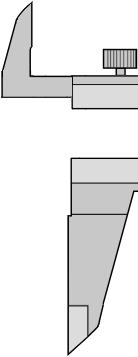
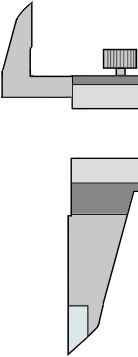
Vernier Calliper Simulation Added

Changed region(s): [[0.5217, 0.493, 1.0, 0.6162], [0.5217, 0.2157, 1.0, 0.2465]]

diff --git a/experiments/vernier_calliper.html b/experiments/vernier_calliper.html
@@ -42,9 +42,9 @@
 s
 <script type='text/javascript'>
     /*drawing offset*/
-    var scale=window.innerWidth/1000;
-    var xOffset=0;
-    var yOffset=0;
+    var scale=window.innerWidth/1200;
+    var xOffset=30;
+    var yOffset=30;
     var dragMode=0;//0==none, 1=world, 2=vernier, 3= object
 
     var mx, my; //prev mouse positions
@@ -98,6 +98,7 @@ s
     const vernierScaleHeightPixels=354;
     const bladeWidthPixel=716;
     const bladeHeightPixel=20;
+    const rulerMidPointY=135;
 
     const unit="mm";
     var mainScaleDivisions=50;
@@ -107,6 +108,7 @@ s
     var vsd_pixels=mainScaleLengthPixels/mainScaleDivisions;
     var vernierScaleLengthPixels=180;
 
+    var precision=2;
     var LC=0;
     var msr=0;
     var vsr=0;
@@ -118,7 +120,7 @@ s
     var randomMainScaleDivisions=true;
     var randomVernierScaleDivision=true;
     var randomObjectWidthPixel=true;
-    var objectTobeMeasured={x:xOffset+ window.innerWidth-40,y:yOffset+window.innerHeight-110,w:30,h:100,type:0,state:1};//state =0=hide, 1= visible but not snapped, 2=snapped
+    var objectTobeMeasured={path:null,x:0,y:0,length:100,w:100,h:100,R1:30,R2:50,h2:100,h1:80,th:0,mode:0,state:0};//state =0=hide, 1= visible but not snapped, 2=snapped
 
     //create gui
     var gui = new dat.GUI({name:"MicrometerSimulation"});//,autoPlace: false});
@@ -174,22 +176,82 @@ s
         resize();
     }
 
-    function createProblem(){
-        if(randomVernierScaleDivision)randomVernierScaleDivision=(1+Math.round(Math.random()*9))*10;
-        if(randomZeroError)zeroError=Math.round(2*vernierScaleDivisions*(Math.random()-0.5));
-        if(randomMainScaleDivisions)mainScaleDivisions=10*(1+Math.round(4*Math.random()));
-        if(randomObjectWidthPixel)objectWidthPixel=mainScaleLengthPixels*(1+5*Math.random())/10;
-        objectTobeMeasured.state=1;
-        objectTobeMeasured.w=objectWidthPixel;
+    function createProblem() {
+        if (randomMainScaleDivisions) mainScaleDivisions = 50 * (1 + Math.round(2 * Math.random()));
+        if (randomVernierScaleDivision) vernierScaleDivisions = (1 + Math.round(Math.random() * 5)) * 5;
+        if (vernierScaleDivisions > mainScaleDivisions / 4) vernierScaleDivisions = Math.round(mainScaleDivisions / 20) * 5;
+        if (randomZeroError) zeroError = Math.round(2 * vernierScaleDivisions * (Math.random() - 0.5));
+        if (randomObjectWidthPixel || objectTobeMeasured.path==null) {
+            objectWidthPixel = mainScaleLengthPixels * (1 + 3 * Math.random()) / 10;
+
+            //objectTobeMeasured.state=1;
+            objectTobeMeasured.R2 = (0.3 + 0.7 * Math.random()) * mainScaleLengthPixels / 4;
+            objectTobeMeasured.R1 = (0.7 + 0.2 * Math.random()) * objectTobeMeasured.R2;
+            objectTobeMeasured.h2 = (0.4 + 0.6 * Math.random()) * mainScaleLengthPixels / 5;
+            objectTobeMeasured.h1 = (0.7 + 0.2 * Math.random()) * objectTobeMeasured.h2;
+            objectTobeMeasured.w = 2 * objectTobeMeasured.R2;
+            objectTobeMeasured.h = objectTobeMeasured.h2;
+            objectTobeMeasured.length = 2 * objectTobeMeasured.R2;
+
+            let path = new Path2D()
+            path.moveTo(0, 0);
+            path.lineTo(2 * objectTobeMeasured.R2, 0);
+            path.lineTo(2 * objectTobeMeasured.R2, objectTobeMeasured.h2);
+            path.lineTo(objectTobeMeasured.R1 + objectTobeMeasured.R2, objectTobeMeasured.h2)
+            path.lineTo(objectTobeMeasured.R2 + objectTobeMeasured.R1, objectTobeMeasured.h2 - objectTobeMeasured.h1);
+            path.lineTo(objectTobeMeasured.R2 - objectTobeMeasured.R1, objectTobeMeasured.h2 - objectTobeMeasured.h1);
+            path.lineTo(objectTobeMeasured.R2 - objectTobeMeasured.R1, objectTobeMeasured.h2);
+            path.lineTo(0, objectTobeMeasured.h2);
+            path.closePath();
+            objectTobeMeasured.path = path;
+        }
+
         //objectTobeMeasured.x=xOffset+canvas.width-objectTobeMeasured.w-10;
         //objectTobeMeasured.y=yOffset+canvas.height-objectTobeMeasured.h-10;
-        if(Math.abs(objectTobeMeasured.x-spindleOriginX)<200 && Math.abs(objectTobeMeasured.y-scaleOriginY+objectTobeMeasured.h/2)<objectTobeMeasured.h/2+50){
-            objectTobeMeasured.x=spindleOriginX;
-            objectTobeMeasured.y=scaleOriginY-objectTobeMeasured.h/2;
+        if(objectTobeMeasured.state==2){
+            //objectTobeMeasured.x=scaleOriginX   ;
+            //objectTobeMeasured.y=scaleOriginY+objectTobeMeasured.h/2;
+            if(objectTobeMeasured.mode==1){
+                objectTobeMeasured.w=2*objectTobeMeasured.R2;
+                objectTobeMeasured.h=objectTobeMeasured.h2;
+                objectTobeMeasured.th=0;
+                objectTobeMeasured.mode=1;
+                objectTobeMeasured.state=2;
+                objectTobeMeasured.x=32-objectTobeMeasured.R2+objectTobeMeasured.R1;
+                objectTobeMeasured.y=3-objectTobeMeasured.h2+objectTobeMeasured.h1;
+                objectTobeMeasured.length=2*objectTobeMeasured.R1;
+             }else if(objectTobeMeasured.mode==0){
+                objectTobeMeasured.w=2*objectTobeMeasured.R2;
+                objectTobeMeasured.h=objectTobeMeasured.h2;
+                objectTobeMeasured.th=0;
+                objectTobeMeasured.mode=0;
+                objectTobeMeasured.state=2;
+                objectTobeMeasured.x=scaleOriginX;
+                objectTobeMeasured.y=imgVernier.height-50-objectTobeMeasured.h/2;
+                objectTobeMeasured.length=2*objectTobeMeasured.R2;
+            }else if( objectTobeMeasured.mode==2){
+                objectTobeMeasured.th=Math.PI/2;
+                objectTobeMeasured.w=-objectTobeMeasured.h2;
+                objectTobeMeasured.h=objectTobeMeasured.R2*2;
+                objectTobeMeasured.x=rulerWidthPixel-objectTobeMeasured.w;
+                objectTobeMeasured.y=rulerMidPointY-objectTobeMeasured.R2;
+                objectTobeMeasured.state=2;
+                objectTobeMeasured.mode=2;
+                objectTobeMeasured.length=objectTobeMeasured.h1;
+            }
             objectTobeMeasured.state=2;
-        }else if(objectTobeMeasured.x>window.innerWidth-objectTobeMeasured.w||objectTobeMeasured.y>window.innerHeight-objectTobeMeasured.w||objectTobeMeasured.x<objectTobeMeasured.w/2||objectTobeMeasured.y<-objectTobeMeasured.h/2){
-            objectTobeMeasured.x = window.innerWidth-objectTobeMeasured.w;
-            objectTobeMeasured.y = window.innerHeight-objectTobeMeasured.h
+        }else {
+            objectTobeMeasured.state=1;
+            objectTobeMeasured.mode=0;
+            objectTobeMeasured.th = 0;
+            objectTobeMeasured.w = 2 * objectTobeMeasured.R2;
+            objectTobeMeasured.h = objectTobeMeasured.h2;
+            objectTobeMeasured.length = 2 * objectTobeMeasured.R2;
+            if(objectTobeMeasured.x<-xOffset) objectTobeMeasured.x=-xOffset;
+            if(objectTobeMeasured.y<-yOffset) objectTobeMeasured.y=-yOffset;
+            //if(objectTobeMeasured.x>-xOffset+canvas.width-objectTobeMeasured.w-50) objectTobeMeasured.x = -xOffset+canvas.width-objectTobeMeasured.w-100;
+           // if(objectTobeMeasured.y>-yOffset+canvas.height-objectTobeMeasured.h-50) objectTobeMeasured.y = -yOffset+canvas.height-objectTobeMeasured.h-100;
+
         }
         for (let i in deviceFolder.__controllers) {
             if (deviceFolder.__controllers[i].property == "zeroError"){
@@ -201,6 +263,8 @@ s
             deviceFolder.__controllers[i].updateDisplay();
 
         }
+
+
         translateVernier(0);
     }
 
@@ -240,15 +304,18 @@ s
         msd_pixels=mainScaleLengthPixels/mainScaleDivisions;
         vsd_pixels=msd_pixels*(1-1/vernierScaleDivisions);
         vernierScaleLengthPixels=Math.max(imgVernier1.width+imgVernier3.width,50+vsd_pixels*vernierScaleDivisions+50);//imgVernier3.width;
-
+        precision=(vernierScaleDivisions%3==0||vernierScaleDivisions%7==0)?3:0;
         if(objectTobeMeasured.state==2){
             let v=(msr+vsr/vernierScaleDivisions)*msd_pixels
-            if(v<objectTobeMeasured.w){
-                msr=Math.floor(objectTobeMeasured.w/msd_pixels);
-                vsr=Math.floor((objectTobeMeasured.w/msd_pixels-msr)*vernierScaleDivisions);
+            let ol=objectTobeMeasured.length;
+            if((objectTobeMeasured.mode==0 && v<ol) || (objectTobeMeasured.mode!=0 && v>ol)){
+                msr=Math.floor(ol/msd_pixels);
+                vsr=Math.floor((ol/msd_pixels-msr)*vernierScaleDivisions);
                 if(tickSound.paused)tickSound.play();
             }
         }
+
+
         for (let i in deviceFolder.__controllers) {
             if (deviceFolder.__controllers[i].property == "zeroError"){
                 deviceFolder.__controllers[i].min(-vernierScaleDivisions+1).max(vernierScaleDivisions-1).step(1);
@@ -332,7 +399,7 @@ s
         ctx.font = '8pt sans-serif';
 
         let N=vernierScaleDivisions;
-        let dx=msd_pixels*(1-1/N);
+
         labelGap=0;
         while(vsd_pixels*labelGap<20){
             labelGap+=1;
@@ -344,11 +411,12 @@ s
                 outString(x,y+ticklength+1,i,1,0 );
             }
             drawLine(x,y,x,y+ticklength);
-            x+=dx;
+            x+=vsd_pixels;
         }
         ctx.fillStyle=fgColor;
         ctx.font = '12pt sans-serif';
 
+        /**
         if(objectTobeMeasured.state>0){
             let grd=ctx.createLinearGradient(objectTobeMeasured.x,objectTobeMeasured.y,objectTobeMeasured.x+objectTobeMeasured.w,objectTobeMeasured.y);
             grd.addColorStop(0,"rgb(120,120,120)")
@@ -360,53 +428,72 @@ s
             ctx.strokeRect(objectTobeMeasured.x+1,objectTobeMeasured.y,objectTobeMeasured.w,objectTobeMeasured.h);
             ctx.fillStyle=fgColor;
         }
+        */
 
-        if(displayInfo)drawInfo();
+
         //draw Base of gauge
         ctx.drawImage(imgBase,0,0,64,102,0,0,64,102);
+        if(objectTobeMeasured.state>0){
+            ctx.save();
+            ctx.fillStyle="rgb(130,190,140)";
+            ctx.strokeStyle=scaleColor;
+            ctx.translate(objectTobeMeasured.x,objectTobeMeasured.y);
+            ctx.rotate(objectTobeMeasured.th);
+            ctx.fill(objectTobeMeasured.path);
+            ctx.stroke(objectTobeMeasured.path);
+            ctx.restore();
+        }
 
+        if(displayInfo)drawInfo();
         ctx.resetTransform();
 
         ctx.drawImage(imgSimphy,5,5,100,30);
     }
 
     function drawInfo(){
-        //draw MSD Info and CSD Info
+        //draw MSD Info and VSD Info
         ctx.lineWidth=1.5;
         ctx.fillStyle=fgColor;
         ctx.strokeStyle=fgColor;
         //dra MSD Hint
-        let x=scaleOriginX-msd_pixels*zeroError/vernierScaleDivisions + getMainScaleReading()*msd_pixels;
-        let y=scaleOriginY+2+minorTickLengthPixels;
+        let x=scaleOriginX+offsetOriginX-msd_pixels*zeroError/vernierScaleDivisions + getMainScaleReading()*msd_pixels;
+        let y=scaleOriginY-majorTickLengthPixels;
         let arrowSize=5;
-        drawLineWithArrows(x,y,x, y+50,arrowSize,arrowSize,true,false);
-        outString(x, y+53,getMainScaleReading()+"MSD = "+formatValue(getMainScaleReading()*msdValue),1,0);
+        drawLineWithArrows(x,y,x, y-80,arrowSize,arrowSize,true,false);
+        outString(x, y-83,getMainScaleReading()+"MSD = "+formatValue(getMainScaleReading()*msdValue),1,0);
 
-        //Draw CSD Hint
+        //Draw VSD Hint
         let gappixel=msd_pixels*(msr+vsr/vernierScaleDivisions);
-        x=scaleOriginX+gappixel;
-        y=scaleOriginY;
-        drawLineWithArrows(x,y,x+40, y,arrowSize,arrowSize,true,false);
-        outString(x+47, y,getVernierScaleReading()+"CSD = "+formatValue(msdValue*getVernierScaleReading()/vernierScaleDivisions),0,1);
+        x=scaleOriginX+gappixel+offsetOriginX+vsr*vsd_pixels;
+        y=scaleOriginY+majorTickLengthPixels;
+        drawLineWithArrows(x,y,x, y+20,arrowSize,arrowSize,true,false);
+        outString(x, y+22,getVernierScaleReading()+"VSD = "+formatValue(msdValue*getVernierScaleReading()/vernierScaleDivisions),1,0);
 
         //Draw SCrew gauge Reading
-        x=spindleOriginX-1;
-        y=spindleOriginY-20;
-        drawLineWithArrows(x-30,y,x, y,arrowSize,arrowSize,false,true);
-        x=spindleOriginX+gappixel+3;
-        y=spindleOriginY-20;
-        drawLineWithArrows(x,y,x+30, y,arrowSize,arrowSize,true,false);
         let mr=getMeasuredReading();
         let cr=getCorrectedReading();
         let ze=getZeroError();
-        y=spindleOriginY-42;
-        x=spindleOriginX+gappixel/2;
-        if(ze==0){
-            outString(x, y,formatValue(cr),1,1);
-        }else if(ze>0){
-            outString(x, y,formatValue(mr)+' - '+formatValue(ze)+" = "+formatValue(cr),1,1);
-        }else{
-            outString(x, y,formatValue(mr)+' + '+formatValue(-ze)+" = "+formatValue(cr),1,1);
+        x=scaleOriginX-1;
+        y=imgVernier.height+5;
+        let xs=[scaleOriginX,scaleOriginX-34,rulerWidthPixel];
+        let ys=[imgVernier.height+5,4,scaleOriginY-70];
+        for(let i=0;i<3;i++){
+            x=xs[i];
+            y=ys[i];
+            drawLine(x,y-8,x,y+8);
+            drawLineWithArrows(x-30,y,x, y,arrowSize,arrowSize,false,true);
+            x+=gappixel;
+            drawLine(x,y-8,x,y+8);
+            drawLineWithArrows(x,y,x+30, y,arrowSize,arrowSize,true,false);
+            x-=gappixel/2;
+            y=y+20;
+            if(ze==0){
+                outString(x, y,formatValue(cr),1,1);
+            }else if(ze>0){
+                outString(x, y,formatValue(mr)+' - '+formatValue(ze)+" = "+formatValue(cr),1,1);
+            }else{
+                outString(x, y,formatValue(mr)+' + '+formatValue(-ze)+" = "+formatValue(cr),1,1);
+            }
         }
 
 
@@ -471,7 +558,7 @@ s
         //
         ctx.save();
         ctx.translate(x0,y0);
-        ctx.translate(angle);
+        ctx.rotate(angle);
         ctx.beginPath();
         ctx.moveTo(0,0);
         ctx.lineTo(length,0);
@@ -558,11 +645,10 @@ s
         let x = m[0]/scale-xOffset;
         let y = m[1]/scale-yOffset;
         let shift=scaleOriginX+(msr+vsr/vernierScaleDivisions)*msd_pixels;
-        if((x>shift && x<shift+imgVernier1.width && y>scaleOriginY-100 && y<vernierScaleHeightPixels)||
-            (x>shift+imgVernier1.width && x<shift+vernierScaleLengthPixels && y>scaleOriginY-100 && y<scaleOriginY+20)) {
-
+        if((x>shift && x<shift+imgVernier1.width-60 && y>scaleOriginY-100 && y<vernierScaleHeightPixels)||
+            (x>shift+imgVernier1.width-60 && x<shift+vernierScaleLengthPixels-imgVernier3.width && y>scaleOriginY-100 && y<scaleOriginY+35)) {
             dragMode = 2;
-        }else if(objectTobeMeasured.state>0 && x>objectTobeMeasured.x && x<objectTobeMeasured.x+objectTobeMeasured.w && y>objectTobeMeasured.y && y<objectTobeMeasured.y+objectTobeMeasured.h){
+        }else if(objectTobeMeasured.state>0 && Math.abs(x-objectTobeMeasured.x-objectTobeMeasured.w/2)<Math.abs(objectTobeMeasured.w/2) && Math.abs(y-objectTobeMeasured.y-Math.abs(objectTobeMeasured.h/2))<Math.abs(objectTobeMeasured.h/2) ){
             dragMode = 3;
             objectTobeMeasured.state=1;
         }else{
@@ -576,10 +662,44 @@ s
 
     function mouseReleased( me) {
         if(dragMode==3) { //move object
-            if(Math.abs(objectTobeMeasured.x-scaleOriginX)<200 && Math.abs(objectTobeMeasured.y-scaleOriginY+objectTobeMeasured.h/2)<objectTobeMeasured.h/2+50){
-                objectTobeMeasured.x=spindleOriginX;
-                objectTobeMeasured.y=scaleOriginY-objectTobeMeasured.h/2;
+            let x=objectTobeMeasured.x;
+            let y=objectTobeMeasured.y
+            let w= Math.abs(objectTobeMeasured.w);
+            let h= Math.abs(objectTobeMeasured.h) ;
+            //find center of object
+            x+=w/2;
+            y+=h/2;
+            //check if object is snapped to main jaws
+            if(Math.abs(x-scaleOriginX)<w+20){
+                if(Math.abs(y-30)<h+50){
+                    objectTobeMeasured.w=2*objectTobeMeasured.R2;
+                    objectTobeMeasured.h=objectTobeMeasured.h2;
+                    objectTobeMeasured.th=0;
+                    objectTobeMeasured.mode=1;
+                    objectTobeMeasured.state=2;
+                    objectTobeMeasured.x=32-objectTobeMeasured.R2+objectTobeMeasured.R1;
+                    objectTobeMeasured.y=3-objectTobeMeasured.h2+objectTobeMeasured.h1;
+                    objectTobeMeasured.length=2*objectTobeMeasured.R1;
+                }else if( Math.abs(y-scaleOriginY-100)<h+50){
+                    objectTobeMeasured.w=2*objectTobeMeasured.R2;
+                    objectTobeMeasured.h=objectTobeMeasured.h2;
+                    objectTobeMeasured.th=0;
+                    objectTobeMeasured.mode=0;
+                    objectTobeMeasured.state=2;
+                    objectTobeMeasured.x=scaleOriginX;
+                    objectTobeMeasured.y=imgVernier.height-50-objectTobeMeasured.h/2;
+                    objectTobeMeasured.length=2*objectTobeMeasured.R2;
+                }
+            }else if( Math.abs(x-rulerWidthPixel)<w+20 && Math.abs(y-rulerMidPointY)<h+20){
+                objectTobeMeasured.th=Math.PI/2;
+                objectTobeMeasured.w=-objectTobeMeasured.h2;
+                objectTobeMeasured.h=objectTobeMeasured.R2*2;
+                objectTobeMeasured.x=rulerWidthPixel-objectTobeMeasured.w;
+                objectTobeMeasured.y=rulerMidPointY-objectTobeMeasured.R2;
+
                 objectTobeMeasured.state=2;
+                objectTobeMeasured.mode=2;
+                objectTobeMeasured.length=objectTobeMeasured.h1;
             }
             update();
          }

diff --git a/experiments/screwgauge.html b/experiments/screwgauge.html
@@ -86,7 +86,7 @@ s
     var info_color="rgb(210,56,20)"
     //create gui
     var gui = new dat.GUI({name:"Field Controllers"});//,autoPlace: false});
-    var N=50;// circular division count
+
     // String field
     //gui.add(window, "u").name("Object Position  ").min(-400).max(-5).step(1).onChange(update);
 
